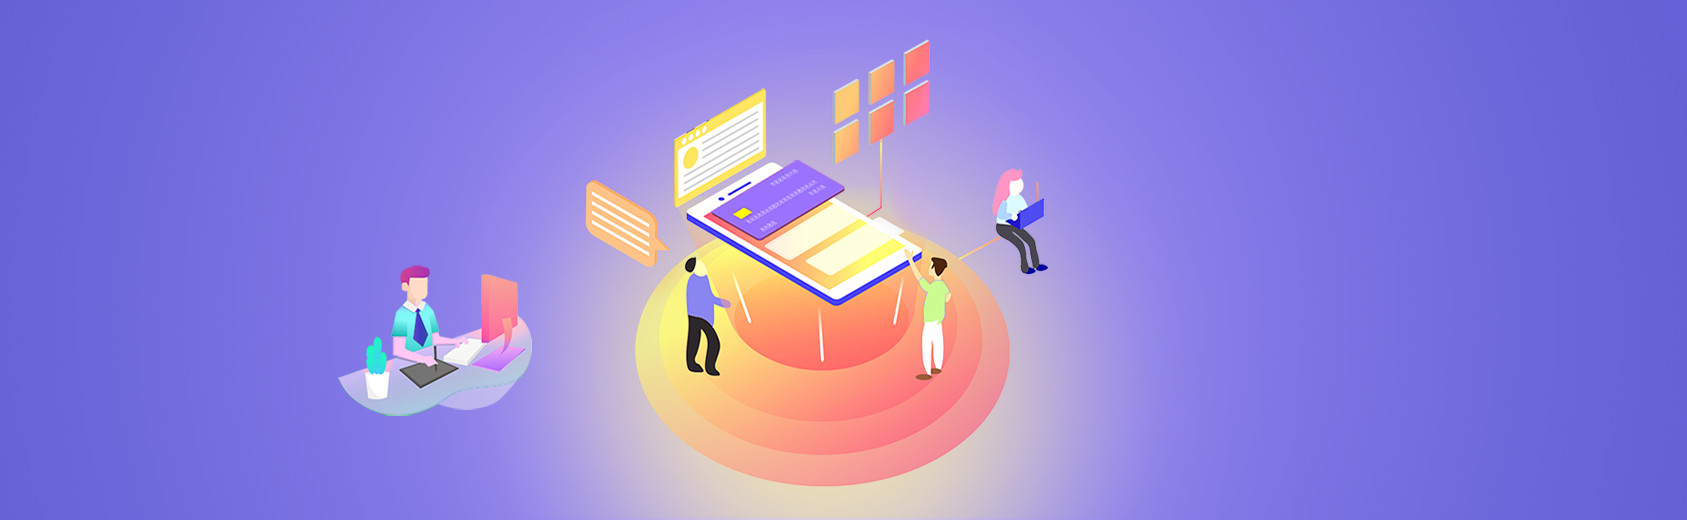
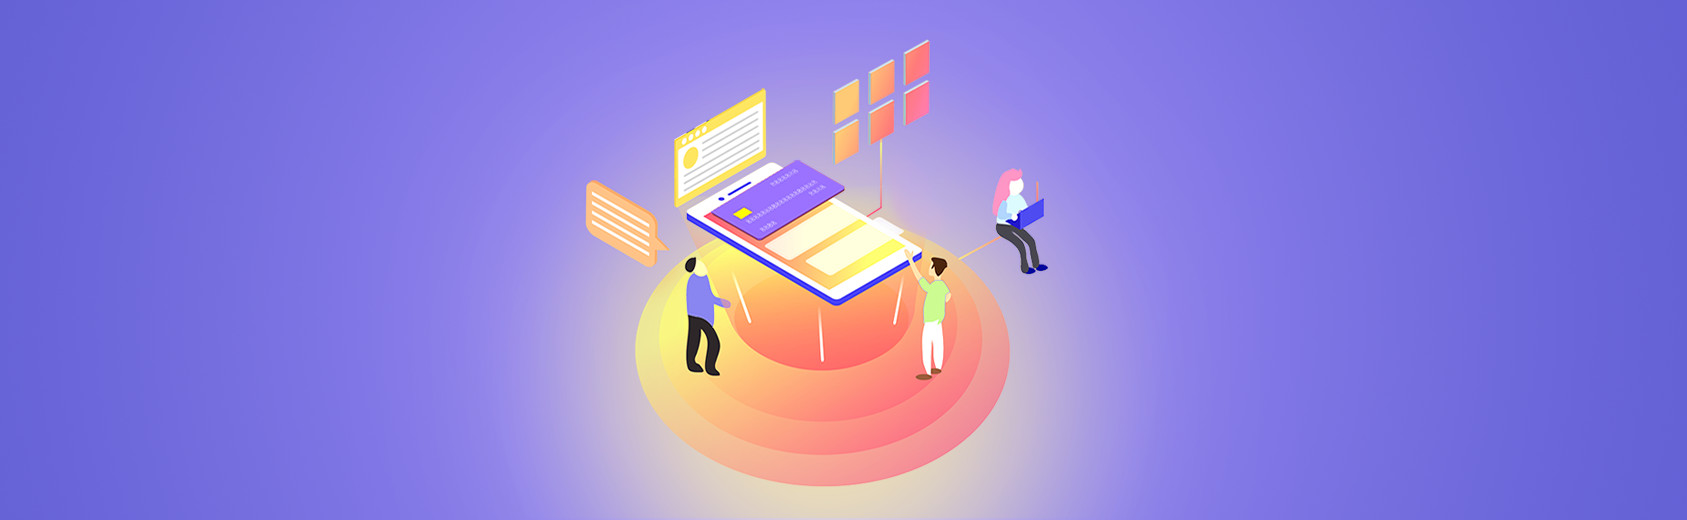
mett the team anim

Changed region(s): [[0.1849, 0.5231, 0.3391, 0.8]]

diff --git a/assets/css/eCommerce.css b/assets/css/eCommerce.css
@@ -110,8 +110,31 @@ header{
   background-image: url("../images/desktop/meetTheTeam/diagram.png");
   width: 9vw;
   height: 9vw;
-  top: 0vw;
+  top: -1.5vw;
   left: 0;
+}
+.PCguy{
+  position: absolute;
+  background-size: 100% 100%;
+  background-image: url("../images/desktop/meetTheTeam/PCguy.png");
+  top: 11vw;
+  left: 16vw;
+  width: 11.492%;
+  height: 29.038%;
+  animation-name: PCguy;
+  animation-duration: 10s;
+  animation-iteration-count: infinite;
+}
+@keyframes PCguy {
+  0%{
+    top: 11vw;
+  }
+  50%{
+    top: 10vw;
+  }
+  100%{
+    top: 11vw;
+  }
 }
 
 .bigConnectionsBox img{
@@ -338,6 +361,9 @@ main{
   left: 0;
   width: 100%;
   height: 100%;
+  background-color: rgba(137,97,255,0.6);
+}
+#meetTheTeamTest{
   background-color: rgba(137,97,255,0.2);
 }
 .meetTheTeam .purpOverlayTwo{
@@ -346,7 +372,7 @@ main{
   bottom: 0;
   width: 100%;
   height: 8.81481vw;
-  background-color: rgba(137,97,255,0.6);
+  /* background-color: rgba(137,97,255,0.6); */
   display: flex;
   /* justify-content: center; */
   align-items: center;

diff --git a/assets/js/meetTheTeam.js b/assets/js/meetTheTeam.js
@@ -64,6 +64,16 @@ function graphLineFun() {
   graphLine[2].style.height = "10vw";
   graphLine[3].style.height = "8vw";
   graphLine[4].style.height = "12vw";
+  setTimeout(function () {
+    graphLine[0].style.height = "0vw";
+    graphLine[1].style.height = "0vw";
+    graphLine[2].style.height = "0vw";
+    graphLine[3].style.height = "0vw";
+    graphLine[4].style.height = "0vw";
+    setTimeout(function () {
+      graphLineFun();
+    }, 6000);
+  }, 6000);
 }
 
 

diff --git a/meetTheTeamNewBannerAnim.html b/meetTheTeamNewBannerAnim.html
@@ -75,8 +75,11 @@
             </div>
           </div>
 
+          <div class="PCguy">
 
-        <div class="purpOverlay"></div>
+          </div>
+
+        <div id="meetTheTeamTest" class="purpOverlay"></div>
         <div class="purpOverlayTwo">
           <h1>MEET THE TEAM</h1>
           <button class="meetTheTeamApplyButton" type="button" name="button">Apply</button>
